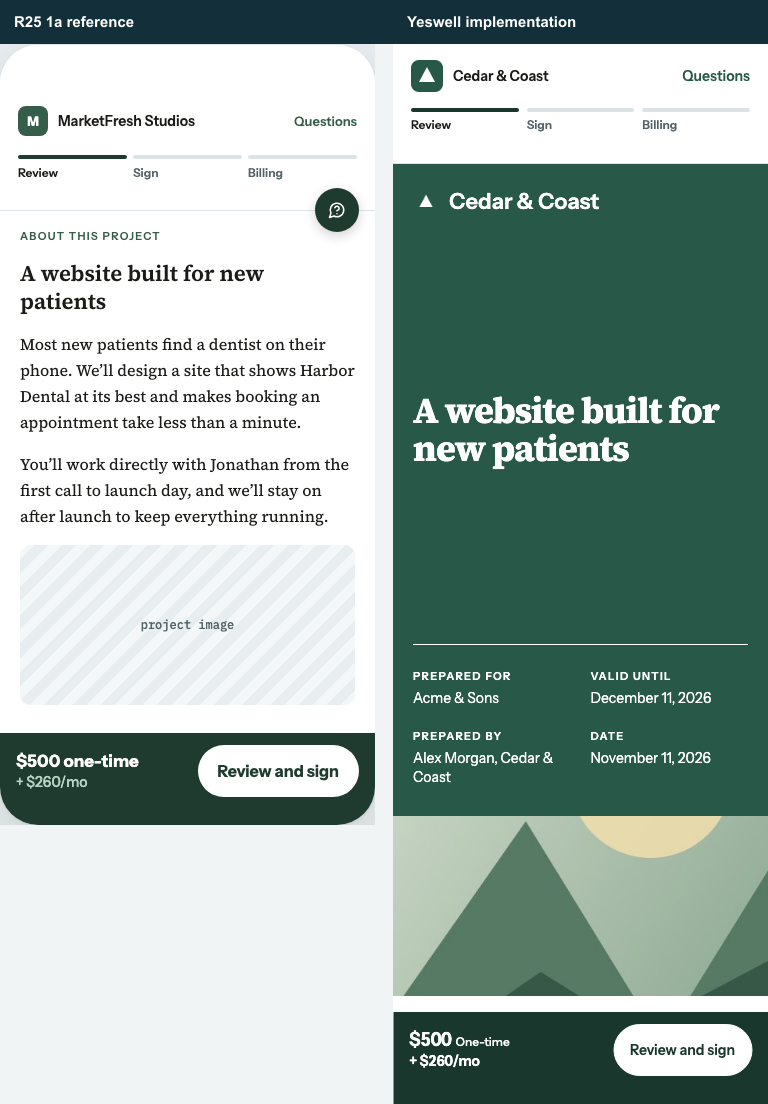
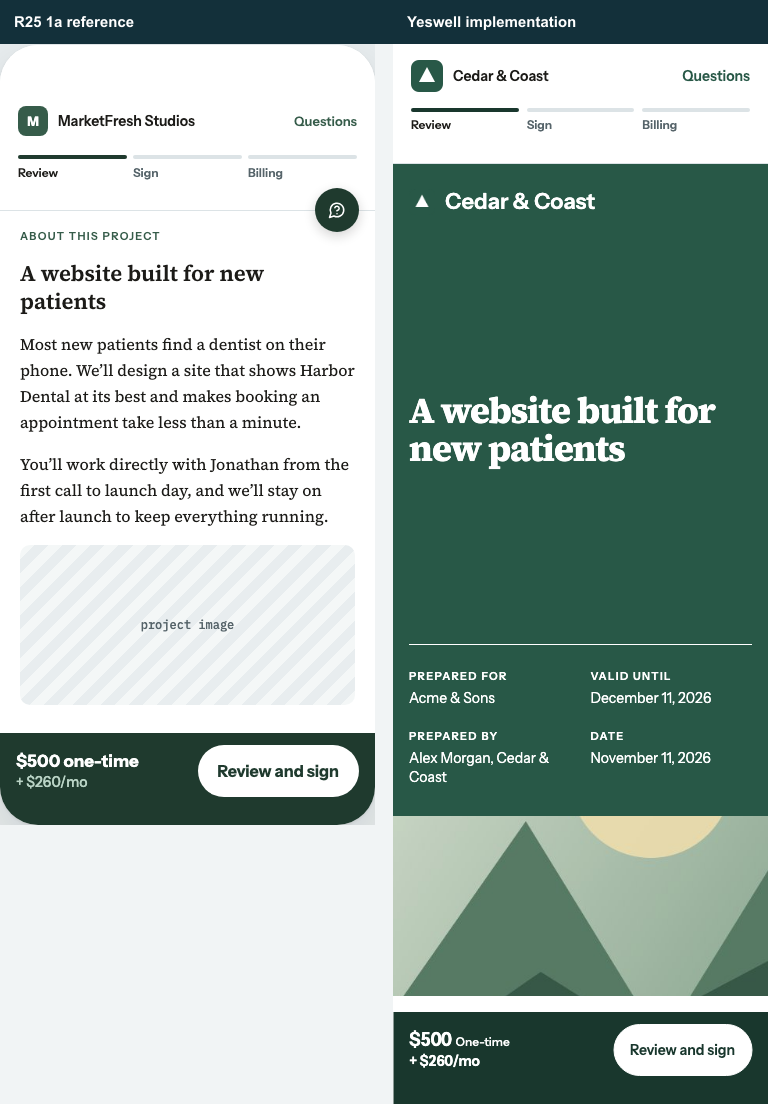
Preserve client reading width across proposal states

Changed region(s): [[0.5312, 0.3388, 0.9375, 0.4312], [0.5312, 0.5851, 0.7188, 0.7083], [0.5312, 0.154, 0.7812, 0.2156]]

diff --git a/src/app/client-reading.css b/src/app/client-reading.css
@@ -1,4 +1,7 @@
 /* Reading chrome only. The document still uses its workspace styles and shared Letter plan. */
+.client-flow {
+  --client-reading-page-width: 720px;
+}
 .flow-r25-reading {
   --client-deep-accent: color-mix(
     in srgb,
@@ -130,9 +133,14 @@
   box-shadow: inset 0 0 0 1px var(--client-choice-line);
 }
 @media (min-width: 1100px) {
+  .client-flow:not(.flow-phone-preview)
+    .flow-result
+    > :is(.client-document-sheets, .flow-document) {
+    width: min(100%, var(--client-reading-page-width));
+  }
   .client-flow.flow-r25-reading:not(.flow-phone-preview) .flow-review {
     width: min(1140px, 100%);
-    grid-template-columns: minmax(0, 720px) 340px;
+    grid-template-columns: minmax(0, var(--client-reading-page-width)) 340px;
     gap: 24px 40px;
   }
   .flow-r25-reading:not(.flow-phone-preview) .flow-reading-rail {
@@ -320,15 +328,16 @@
     text-decoration: none;
   }
   .client-flow.flow-r25-reading.client-flow .flow-review {
-    padding: 0;
+    padding: 0 max(16px, env(safe-area-inset-right)) 0
+      max(16px, env(safe-area-inset-left));
     background: var(--surface);
   }
   .client-flow.flow-r25-reading.client-flow .paper.document-reading {
     border: 0;
     border-radius: 0;
-    --editor-sheet-left: 20px;
-    --editor-sheet-right: 20px;
-    padding: 24px 20px;
+    --editor-sheet-left: max(16px, env(safe-area-inset-left));
+    --editor-sheet-right: max(16px, env(safe-area-inset-right));
+    padding: 24px 0;
     box-shadow: none;
   }
   .flow-r25-reading

diff --git a/e2e/ink-clay-client.spec.ts b/e2e/ink-clay-client.spec.ts
@@ -369,7 +369,8 @@ for (const width of [1440, 1024, 768, 375]) {
       ).toBeVisible();
       await expect(page.locator(".flow-header .flow-progress")).toBeVisible();
       await expect(sign).toHaveCSS("height", "52px");
-      await expect(page.locator(".flow-document")).toHaveCSS("width", "375px");
+      await expect(page.locator(".flow-review")).toHaveCSS("width", "375px");
+      await expect(page.locator(".flow-document")).toHaveCSS("width", "343px");
       await captureR25(page, "1a");
     }
     await group.scrollIntoViewIfNeeded();

diff --git a/e2e/harbor-palette.spec.ts b/e2e/harbor-palette.spec.ts
@@ -188,7 +188,7 @@ test("Harbor fills the app and editor canvases without replacing client branding
   await expect(client).toHaveCSS("background-color", pageLight);
   await expect(
     page.getByRole("button", { name: "Review and sign", exact: true }).first(),
-  ).toHaveCSS("background-color", "rgb(40, 88, 71)");
+  ).toHaveCSS("background-color", "color(srgb 0.0988235 0.217412 0.175412)");
   await expect(page.locator(".client-document-sheets")).toHaveAttribute(
     "data-layout-ready",
     "true",

diff --git a/e2e/owner-review3.spec.ts b/e2e/owner-review3.spec.ts
@@ -211,7 +211,7 @@ test("phone client content has a single inset, full-width details and unwrapped 
     expect(inset.right).toBeLessThanOrEqual(16);
     expect(inset.scroll).toBe(inset.width);
     const totalsInset = await page
-      .locator(".flow-choices .flow-totals > div > span")
+      .locator(".flow-choices .flow-totals > div > strong")
       .first()
       .evaluate((el) => el.getBoundingClientRect().left);
     expect(totalsInset).toBeLessThanOrEqual(16);
